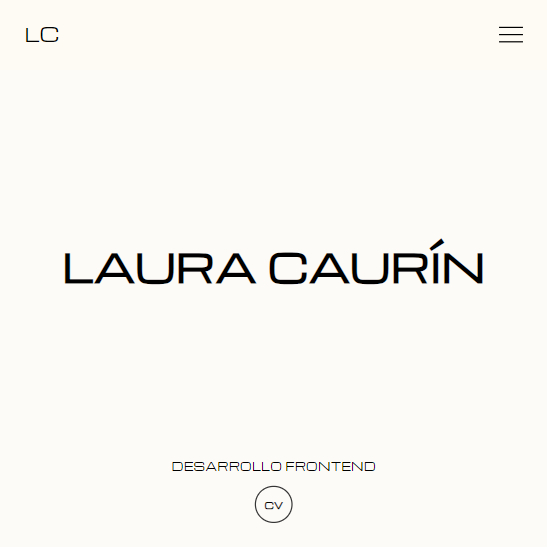
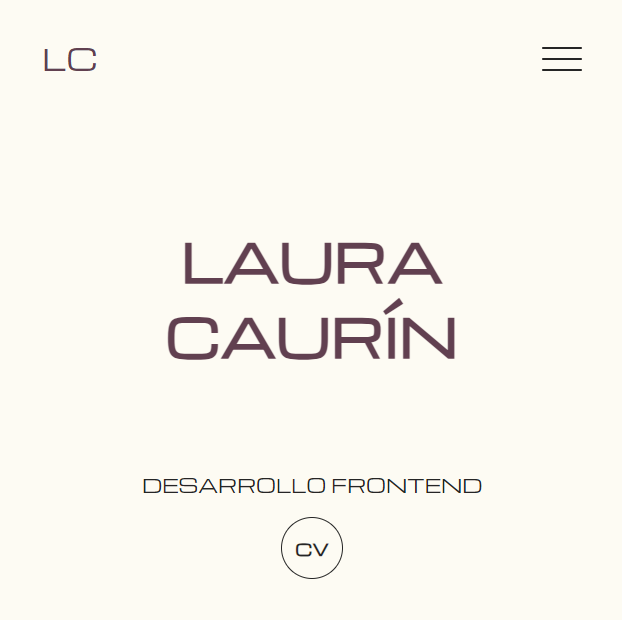
Review Scss layout

diff --git a/src/styles/components/menu.scss b/src/styles/components/menu.scss
@@ -11,16 +11,19 @@ nav {
 
   .logo {
     font-weight: 200;
-    font-size: 25px;
+    font-size: 24px;
     text-decoration: none;
     color: $primary;
     background-color: $background;
 
+    @include tablet {
+      font-size: 26px;
+    }
     @include desktop {
-      transition: all 300ms ease-in-out;
+      transition: transform 500s ease-in-out;
 
       &:hover {
-        color: $secundary;
+        color: $hover;
       }
     }
   }
@@ -28,19 +31,16 @@ nav {
   ul {
     display: none;
 
-
     &.open {
       display: flex;
       flex-direction: column;
       width: 100%;
       margin-bottom: 0.25rem;
       background-color: $background;
-    
 
       li {
         width: 100%;
         text-align: center;
-       
 
         a {
           margin: 0.2rem 0.5rem;
@@ -48,17 +48,23 @@ nav {
         }
       }
     }
+
+    @include tablet {
+      display: flex;
+      flex-direction: row;
+      list-style: none;
+    }
   }
 
   .menu {
     display: flex;
     position: absolute;
-    top: 2.50rem;
+    top: 2.45rem;
     right: 2.2rem;
     flex-direction: column;
     justify-content: space-between;
     width: 2rem;
-    height: 1.22rem;
+    height: 1.2rem;
     cursor: pointer;
     background-color: $background;
 
@@ -67,35 +73,9 @@ nav {
       width: 100%;
       background-color: $secundary;
       border-radius: 0.4rem;
-
-      @include desktop {
-        transition: background-color 300ms ease-in-out;
-      }
     }
 
-    @include desktop {
-      &:hover span {
-        background-color: $primary;
-      }
-    }
-  }
-
-  @include tablet {
-    flex-direction: row;
-    justify-content: space-between;
-    align-items: center;
-
-    .logo {
-      font-size: 27px;
-    }
-
-    ul {
-      display: flex;
-      flex-direction: row;
-      list-style: none;
-    }
-
-    .menu {
+    @include tablet {
       display: none;
     }
   }
@@ -109,11 +89,10 @@ nav {
     position: relative;
 
     @include desktop {
-      transition: color 300ms ease-in-out;
-
+      transition: transform 300ms ease-in-out;
+      font-size: 17px;
       &:hover {
-        color: $primary;
-
+        color: $hover;
         &::after {
           transform: scaleX(1);
         }
@@ -126,16 +105,20 @@ nav {
         bottom: 0;
         width: 100%;
         height: 1px;
-        background-color: $primary;
+        background-color: $hover;
         transform: scaleX(0);
         transform-origin: left;
         transition: transform 500ms ease-in-out;
       }
     }
   }
+  @include tablet {
+    flex-direction: row;
+    justify-content: space-between;
+    align-items: center;
+  }
 }
 
-// Desactivar hover y transiciones en pantallas táctiles (móviles y tablets)
 @media (hover: none) {
 
   nav ul li a,

diff --git a/src/styles/components/home.scss b/src/styles/components/home.scss
@@ -5,7 +5,7 @@
   align-items: center;
   min-height: 100vh;
   text-align: center;
-  padding: 0 35px 0 35px;
+  padding: 0 35px 35px 35px;
 
   &__content {
     display: flex;
@@ -16,18 +16,11 @@
   }
 
   &__title {
-font-family: "Michroma", sans-serif;
-    letter-spacing: 2px;
+    font-family: "Michroma", sans-serif;
     font-weight: 600;
+    text-transform: uppercase;
     color: $primary;
-
-
-   /* font-family: "Michroma", sans-serif;
-    font-weight: 600;
-    color: rgb(0, 0, 0);
-    */
-   
-    font-size: 40px;
+    font-size: 42px;
     padding-top: 100px;
 
     @include tablet {
@@ -44,7 +37,6 @@ font-family: "Michroma", sans-serif;
     flex-direction: column;
     align-items: center;
     gap: 15px;
-    padding-bottom: 35px;
 
     @include tablet {
       flex-direction: row;
@@ -66,7 +58,7 @@ font-family: "Michroma", sans-serif;
     }
 
     @include desktop {
-      font-size: 20px;
+      font-size: 19px;
     }
   }
 }
@@ -89,27 +81,24 @@ font-family: "Michroma", sans-serif;
     display: flex;
     align-items: center;
     justify-content: center;
-    font-size: 12px;
+    font-size: 13px;
     font-weight: 600;
-    border: 0.1rem solid $secundary;
+    border: 1px solid $hover;
     background: none;
-        color: $secundary;
-
-    transition: all 300ms ease-in-out;
-
-   
+    color: $secundary;
+    transition: all 600ms ease-in-out;
 
     @include tablet {
-      width: 60px;
-      height: 60px;
+      width: 55px;
+      height: 55px;
       font-size: 15px;
     }
     @include desktop {
       &:hover {
-          background: $primary;
+          background: $hover;
           color: white;
           border: none;
-        }
+      }
     }
   }
 }

diff --git a/src/styles/components/contact.scss b/src/styles/components/contact.scss
@@ -17,10 +17,10 @@
     align-items: flex-start;
     border-radius: 2rem;
     border: 0.1rem solid rgb(163, 163, 163);
-    background-color: #fdfbf3;
+    background-color: $background;
     margin: 2rem auto;
     padding: 0.5rem;
-    background-color: $background;
+
     @include desktop {
       flex-direction: row;
     }
@@ -35,22 +35,22 @@
   }
 
   &__icon {
-    font-size: 15px;
+    font-size: 17px;
     padding-top: 3px;
 
     @include tablet {
-      font-size: 16px;
+      font-size: 19px;
     }
 
     @include desktop {
-      font-size: 17px;
+      font-size: 19px;
     }
   }
 
   &__rrss {
     font-family: "Montserrat", sans-serif;
     font-size: 15px;
-    color: black;
+    color: $secundary;
     text-decoration: none;
 
     @include tablet {
@@ -61,8 +61,8 @@
       font-size: 19px;
       transition: all 300ms ease-in-out;
       &:hover {
-          color: $secundary;
-        }
+          color: $hover;
+      }
     }
   }
 }

diff --git a/src/styles/components/about.scss b/src/styles/components/about.scss
@@ -20,7 +20,7 @@
   @include desktop {
     flex-direction: row;
     justify-content: center;
-    gap: 30px;
+    gap: 80px;
     align-items: center;
     padding: 117px 100px 0 100px;
   }
@@ -63,11 +63,10 @@
   }
 
   &__title {
-  font-size: 23px;
+    font-size: 23px;
     font-weight: 600;
     margin-bottom: 1rem;
-    color:$primary;
-    
+    color:$primary;  
   
     @include tablet {
       font-size: 25px;
@@ -79,8 +78,7 @@
   }
 
   &__description {
-  font-family: "Montserrat",
-      sans-serif;
+    font-family: "Montserrat", sans-serif;
     line-height: 1.8;
     color: $secundary;
     font-size: 15px;

diff --git a/src/styles/components/projects.scss b/src/styles/components/projects.scss
@@ -1,5 +1,4 @@
 .projects {
-
   display: flex;
   flex-direction: column;
   align-items: center;
@@ -95,20 +94,19 @@
   background: none;
   color:$secundary;
   
-  
   @include tablet {
   font-size: 16px;
   }
 
   @include desktop {
-  transition: all 300ms ease-in-out;
+  transition: all 500ms ease-in-out;
   font-size: 17px;
-  &:hover {
+    &:hover {
       background: $secundary;
       color: white;
       border: none;
+    }
   }
-}
 }
 
 a {

diff --git a/src/components/pages/Home.js b/src/components/pages/Home.js
@@ -3,7 +3,7 @@ const Home = () => {
   return (
     <section class="section home" id="home">
       <div class="home__content">
-        <h1 class="home__title">LAURA CAURÍN</h1>
+        <h1 class="home__title">Laura Caurín</h1>
       </div>
       <div class="home__description">
         <p class="text text--subheading">DESARROLLO FRONTEND</p>

diff --git a/src/App.js b/src/App.js
@@ -28,7 +28,7 @@ function App() {
       img: portfolio,
       title: 'Portfolio',
       repo: 'https://github.com/lauracaurin/Portfolio',
-      demo: 'https://lauracaurin.github.io/Friends-quotes/',
+      demo: 'https://lauracaurin.github.io/Portfolio/',
     },
     {
       img: harry,

diff --git a/src/styles/core/variables.scss b/src/styles/core/variables.scss
@@ -1,15 +1,4 @@
-$primary: #595959;
-
-$secundary: #37483b;
+$primary: #614050;
+$secundary: #252525;
 $background:#fdfbf3;
-
-/*
-azul oscuro 37483b
-
-$amarillo: #dfe777;
-
-
-$verde manzana: #829f66;
-
-
-*/
+$hover: #405d61;
